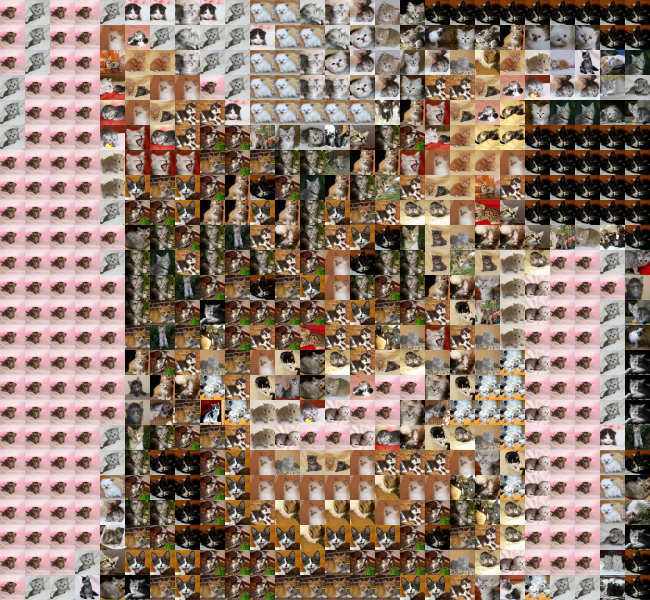
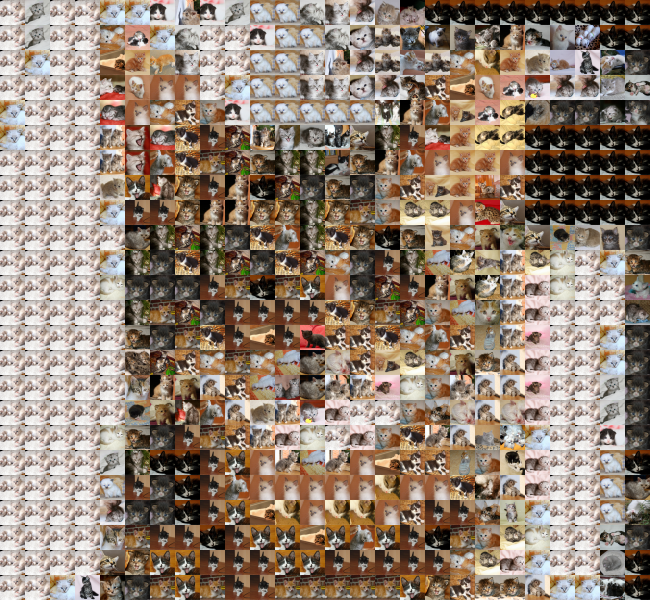
using useR2017 tiles on README

diff --git a/README.md b/README.md
@@ -21,6 +21,16 @@ pixel_replace( tigrou, tiles = kittens, size = 25)
 
 ![](images/pixel_replace.png)
 
+with every 10x10 replaced by a useR 2017 attendee:
+
+``` r
+pixel_replace( tigrou, tiles = useR2017, size = 10)
+#>   format width height colorspace filesize
+#> 1    png  3200   3000       sRGB        0
+```
+
+![](images/pixel_replace_useR.png)
+
 pixel\_quality
 --------------
 
@@ -54,7 +64,7 @@ The tiles argument of these functions expect a tibble similar to the `kittens` (
 
 ``` r
 kittens
-#> # A tibble: 200 x 5
+#> # A tibble: 400 x 5
 #>      red green  blue alpha         tile
 #>    <raw> <raw> <raw> <raw>       <list>
 #>  1    81    4e    50    ff <S3: bitmap>
@@ -67,9 +77,9 @@ kittens
 #>  8    74    5e    4a    ff <S3: bitmap>
 #>  9    94    81    8b    ff <S3: bitmap>
 #> 10    86    85    83    ff <S3: bitmap>
-#> # ... with 190 more rows
+#> # ... with 390 more rows
 puppies
-#> # A tibble: 200 x 5
+#> # A tibble: 400 x 5
 #>      red green  blue alpha         tile
 #>    <raw> <raw> <raw> <raw>       <list>
 #>  1    96    7b    5f    ff <S3: bitmap>
@@ -82,7 +92,7 @@ puppies
 #>  8    ac    9d    8b    ff <S3: bitmap>
 #>  9    79    6f    5d    ff <S3: bitmap>
 #> 10    70    72    70    ff <S3: bitmap>
-#> # ... with 190 more rows
+#> # ... with 390 more rows
 ```
 
 Each row represent a tile, which has a given color (identified by the `red`, `green`, `blue` and `alpha` columns). The `tile` column is a list column holding the data for the tiles.
@@ -101,16 +111,16 @@ samples
 #> # A tibble: 54 x 5
 #>      red green  blue alpha         tile
 #>    <raw> <raw> <raw> <raw>       <list>
-#>  1    86    96    a3    ff <S3: bitmap>
-#>  2    d7    bc    b2    ff <S3: bitmap>
-#>  3    d7    b6    c1    ff <S3: bitmap>
-#>  4    c2    82    90    ff <S3: bitmap>
-#>  5    b9    94    ae    ff <S3: bitmap>
-#>  6    8d    5c    3a    ff <S3: bitmap>
-#>  7    7e    76    70    ff <S3: bitmap>
-#>  8    8c    92    a5    ff <S3: bitmap>
-#>  9    87    7f    66    ff <S3: bitmap>
-#> 10    a6    af    8c    ff <S3: bitmap>
+#>  1    90    9c    a2    ff <S3: bitmap>
+#>  2    d2    ae    a5    ff <S3: bitmap>
+#>  3    dc    aa    b6    ff <S3: bitmap>
+#>  4    c6    88    95    ff <S3: bitmap>
+#>  5    bc    93    ac    ff <S3: bitmap>
+#>  6    8c    5a    3b    ff <S3: bitmap>
+#>  7    7c    75    6f    ff <S3: bitmap>
+#>  8    8b    8d    a0    ff <S3: bitmap>
+#>  9    82    7a    62    ff <S3: bitmap>
+#> 10    a7    b0    8c    ff <S3: bitmap>
 #> # ... with 44 more rows
 ```
 
